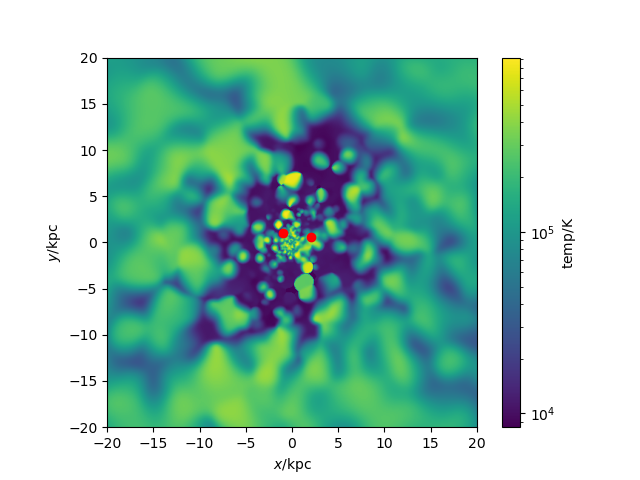
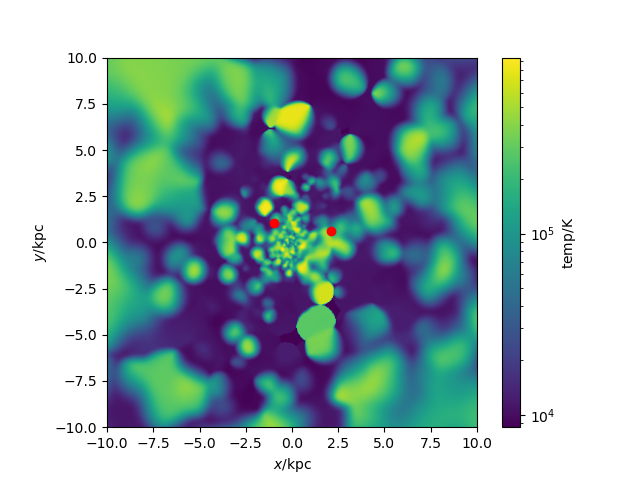
axis updated

diff --git a/r320/galaxy320_iongas.py b/r320/galaxy320_iongas.py
@@ -13,13 +13,14 @@ s=pynbody.load('/mnt/data0/jillian/gguaman/r320/cosmo25p.768sg1bwK1BHe75.007779'
 s.physical_units()
 
 #centering halo
-pynbody.analysis.angmom.faceon(s)
+#pynbody.analysis.angmom.faceon(s)
+pynbody.analysis.angmom.sideon(s)
 
 #filter to only use ionised gas
 GasFilter = pynbody.filt.HighPass('temp','15848 K')
 
 #creating image to show velocity of ionised gas
-sph.image(s.g[GasFilter],qty="vr",vmin=-20,width=40,denoise=True,approximate_fast=False,log=False)
+sph.image(s.g[GasFilter],qty="vr",vmin=-20,width=20,denoise=True,approximate_fast=False,log=False)
 
 #function to find BH
 def findBH(s):
@@ -43,4 +44,5 @@ for i in range(len(BH)):
     plt.plot(BHx,BHy, 'ro')
 
 #plt.show()
-plt.savefig("galaxy320_iongas.png")
+#plt.savefig("galaxy320_iongas.png")
+plt.savefig("galaxy320_iongas(side).png")

diff --git a/r320/galaxy320_velocity.py b/r320/galaxy320_velocity.py
@@ -12,10 +12,11 @@ s=pynbody.load('/mnt/data0/jillian/gguaman/r320/cosmo25p.768sg1bwK1BHe75.007779'
 s.physical_units()
 
 #centering halo
-pynbody.analysis.angmom.faceon(s)
+#pynbody.analysis.angmom.faceon(s)
+pynbody.analysis.angmom.sideon(s)
 
 #creating gas velocity plot
-sph.image(s.g,qty="vr",width=40,denoise=True,approximate_fast=False,log=False)
+sph.image(s.g,qty="vr",width=20,denoise=True,approximate_fast=False,log=False)
 
 #function to find BH
 def findBH(s):
@@ -43,4 +44,5 @@ for i in range(len(BH)):
     plt.plot(BHx,BHy, 'ro')
 
 #plt.show()
-plt.savefig("galaxy320_velocity.png")
+#plt.savefig("galaxy320_velocity.png")
+plt.savefig("galaxy320_velocity(side).png")

diff --git a/r320/galaxy320_temp.py b/r320/galaxy320_temp.py
@@ -12,10 +12,11 @@ s=pynbody.load('/mnt/data0/jillian/gguaman/r320/cosmo25p.768sg1bwK1BHe75.007779'
 s.physical_units()
 
 #centering halo
-pynbody.analysis.angmom.faceon(s)
+#pynbody.analysis.angmom.faceon(s)
+pynbody.analysis.angmom.sideon(s)
 
 #creating slice to show gas temp
-sph.image(s.g,qty="temp",width=40,denoise=True,approximate_fast=False,log=True)
+sph.image(s.g,qty="temp",width=20,denoise=True,approximate_fast=False,log=True)
 
 #function to find BH
 def findBH(s):
@@ -40,4 +41,5 @@ for i in range(len(BH)):
     plt.plot(BHx,BHy, 'ro')
 
 #plt.show()
-plt.savefig("galaxy320_temp.png")
+#plt.savefig("galaxy320_temp.png")
+plt.savefig("galaxy320_temp(side).png")

diff --git a/r320/galaxy320_dens.py b/r320/galaxy320_dens.py
@@ -10,10 +10,11 @@ s=pynbody.load('/mnt/data0/jillian/gguaman/r320/cosmo25p.768sg1bwK1BHe75.007779'
 s.physical_units()
 
 #centering halo and aligning disk
-pynbody.analysis.angmom.faceon(s)
+#pynbody.analysis.angmom.faceon(s)
+pynbody.analysis.angmom.sideon(s)
 
 #creating gas density slice
-sph.image(s.g,qty="rho",units="g cm^-3",width=40)
+sph.image(s.g,qty="rho",units="g cm^-3",width=20)
 
 #function to find BH
 def findBH(s):
@@ -37,4 +38,5 @@ for i in range(len(BH)):
     plt.plot(BHx,BHy, 'ro')
 
 #plt.show()
-plt.savefig("galaxy320_dens.png")
+#plt.savefig("galaxy320_dens.png")
+plt.savefig("galaxy320_dens(side).png")

diff --git a/r320/galaxy320_stars.py b/r320/galaxy320_stars.py
@@ -10,10 +10,12 @@ s=pynbody.load('/mnt/data0/jillian/gguaman/r320/cosmo25p.768sg1bwK1BHe75.007779'
 s.physical_units()
 
 #centering halo
-pynbody.analysis.angmom.faceon(s)
+#pynbody.analysis.angmom.faceon(s)
+pynbody.analysis.angmom.sideon(s)
 
 #creating image using default bands(i,v,u)
-pynbody.plot.stars.render(s,width='12 kpc')
+pynbody.plot.stars.render(s,width='20 kpc')
 
 #plt.show()
-plt.savefig("galaxy320_stars.png")
+#plt.savefig("galaxy320_stars.png")
+plt.savefig("galaxy320_stars(side).png")
